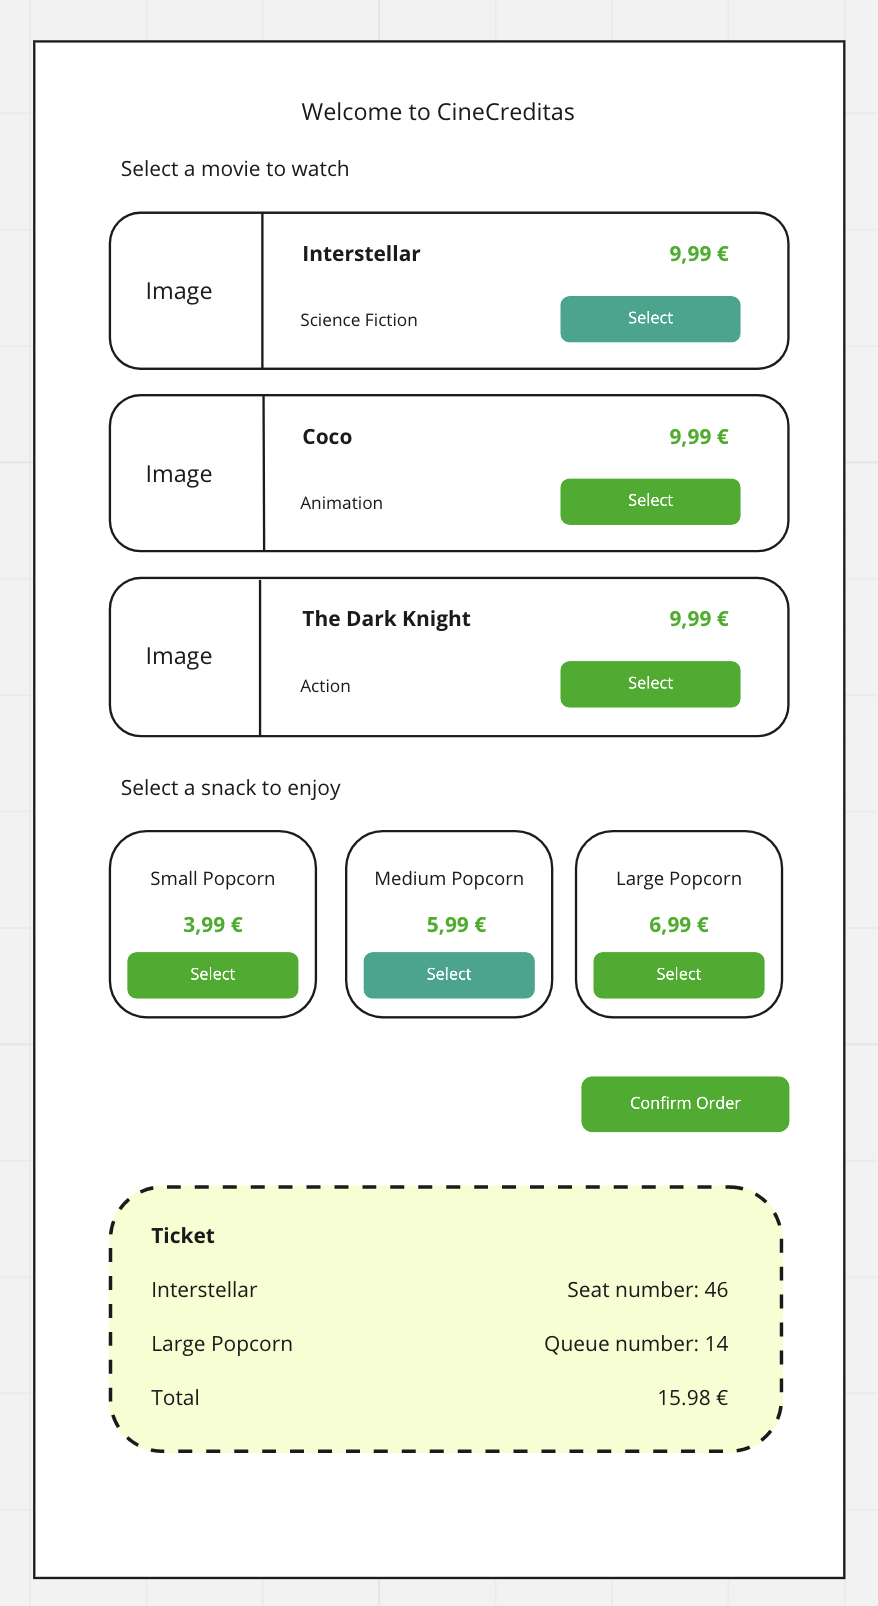
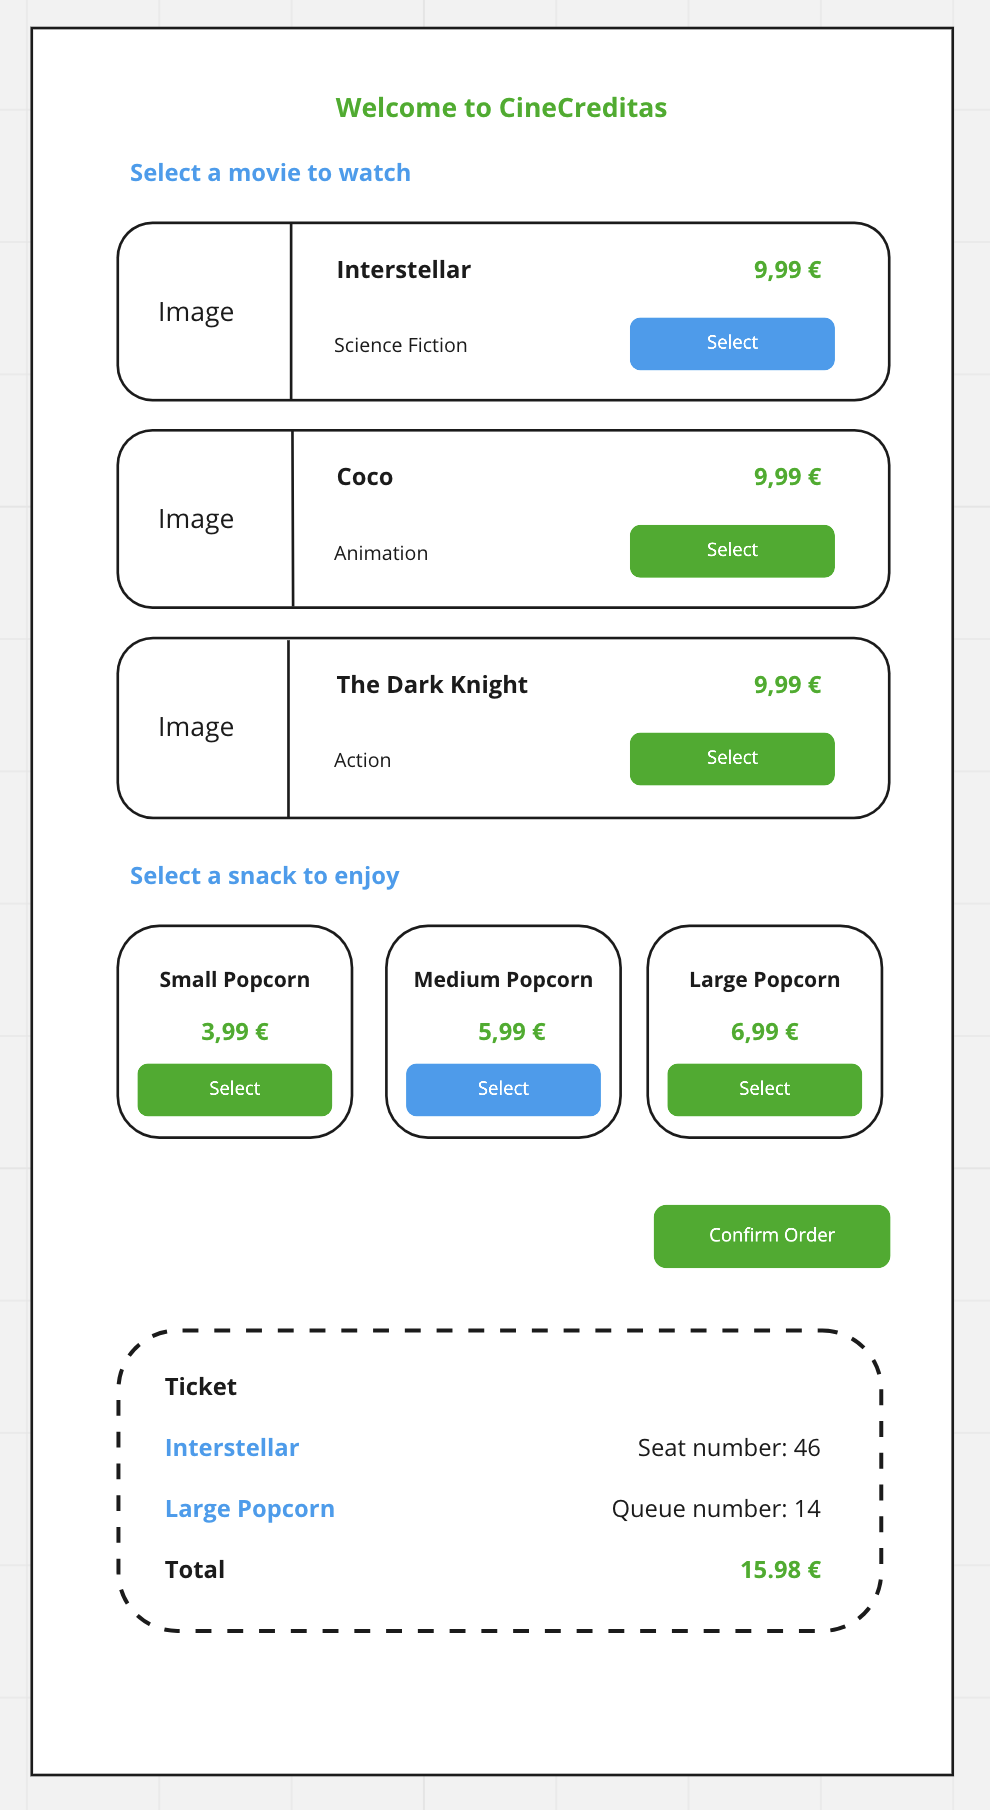
[Added] Styleguide and updated mockups

diff --git a/README.md b/README.md
@@ -106,6 +106,10 @@ As part of the challenge we need your help in order to reduce this delay as much
 
 The template requires some css rules in order to be displayed as proposed in the screenshots provided. Feel free to use any property you feel like to achieve so.
 
+#### Styleguide
+
+![Styleguide](./styleguide.png)
+
 #### Desktop version
 
 ![Desktop version](./desktop-layout.png)
